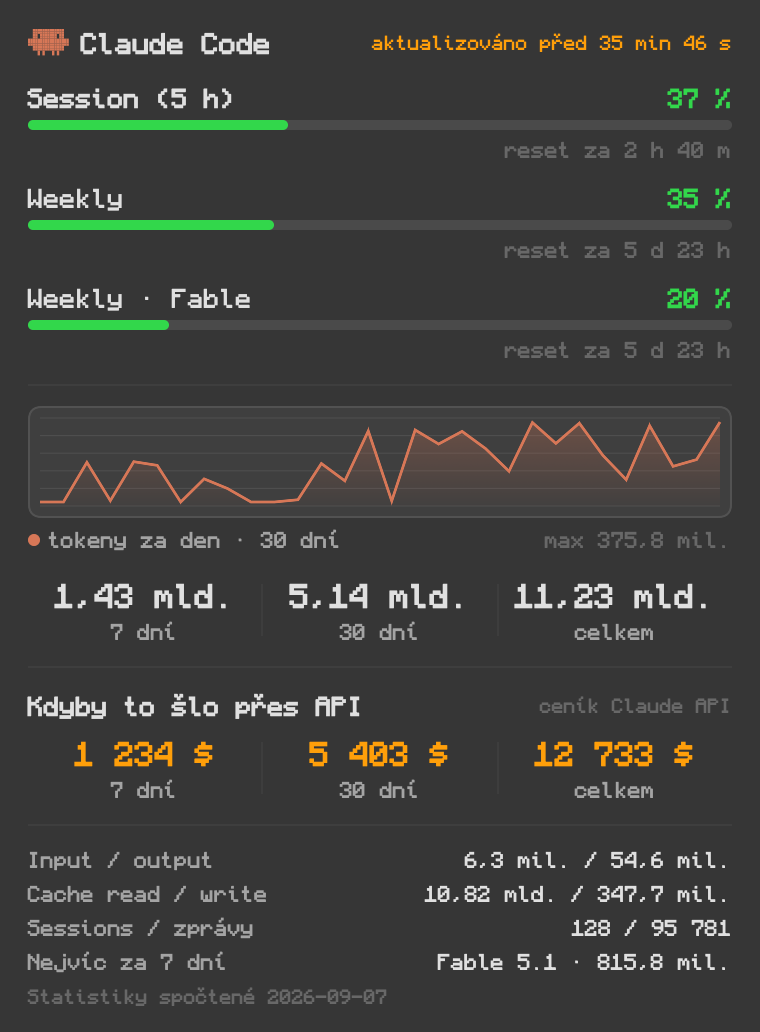
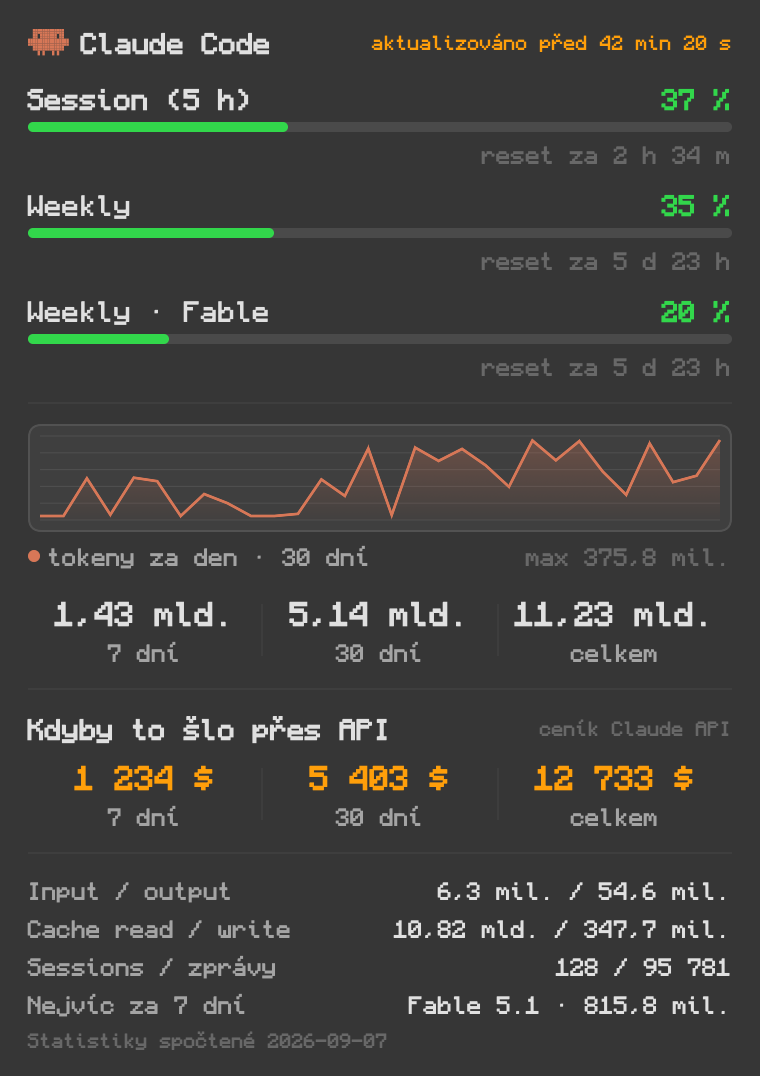
Jednotná typografie panelu a přepsané README
Velikosti písma sjednoceny na čtyři úrovně pojmenované v Fmt: big pro souhrnná
čísla, heading pro nadpisy sekcí a názvy limitů, body pro běžný text včetně
odpočtů a legendy grafu, meta pro poznámky. Dřív se mísilo šest velikostí,
takže "reset za" a "max ..." nesedělo.

README popisuje i živé čtení z API, log a to, že se soubory parsují jen při
změně. Přibyl snímek lišty.

Claude-Session: https://claude.ai/code/session_016XnVs6Dbmv4vnG6tscHHrE

diff --git a/Sources/ClaudeUsage/PopoverView.swift b/Sources/ClaudeUsage/PopoverView.swift
@@ -24,7 +24,7 @@ struct UsageContentView: View {
 
             if let apiNote {
                 Text(apiNote)
-                    .font(Fmt.mono(9))
+                    .font(Fmt.meta)
                     .foregroundStyle(.orange)
                     .fixedSize(horizontal: false, vertical: true)
             }
@@ -54,12 +54,12 @@ struct UsageContentView: View {
         HStack(spacing: 6) {
             MascotBadge(cell: 1.2)
             Text("Claude Code")
-                .font(Fmt.mono(13, weight: .semibold))
+                .font(Fmt.heading)
                 .fixedSize()
             Spacer()
             if let usage {
                 Text(usage.freshnessLabel)
-                    .font(Fmt.mono(9))
+                    .font(Fmt.meta)
                     .lineLimit(1)
                     .fixedSize()
                     .foregroundStyle(usage.isStale ? Color.orange : Color.secondary)
@@ -70,8 +70,8 @@ struct UsageContentView: View {
 
     private func note(_ text: String, _ detail: String) -> some View {
         VStack(alignment: .leading, spacing: 2) {
-            Text(text).font(Fmt.mono(11, weight: .semibold))
-            Text(detail).font(Fmt.mono(10)).foregroundStyle(.secondary)
+            Text(text).font(Fmt.bodyBold)
+            Text(detail).font(Fmt.meta).foregroundStyle(.secondary)
         }
         .fixedSize(horizontal: false, vertical: true)
     }
@@ -90,10 +90,10 @@ struct UsageContentView: View {
         VStack(alignment: .leading, spacing: 5) {
             HStack {
                 Text("Kdyby to šlo přes API")
-                    .font(Fmt.mono(12, weight: .semibold))
+                    .font(Fmt.heading)
                 Spacer()
                 Text("ceník Claude API")
-                    .font(Fmt.mono(9))
+                    .font(Fmt.meta)
                     .foregroundStyle(.tertiary)
             }
             HStack(spacing: 0) {
@@ -120,7 +120,7 @@ struct UsageContentView: View {
                           value: "\(Fmt.modelName(top.model)) · \(Fmt.tokens(top.tokens))")
             }
             Text("Statistiky spočtené \(stats.lastComputed)")
-                .font(Fmt.mono(9))
+                .font(Fmt.meta)
                 .foregroundStyle(.tertiary)
                 .padding(.top, 1)
         }
@@ -153,10 +153,10 @@ private struct TotalCell: View {
     var body: some View {
         VStack(spacing: 1) {
             Text(value)
-                .font(Fmt.mono(15, weight: .semibold))
+                .font(Fmt.big)
                 .foregroundStyle(tint)
             Text(caption)
-                .font(Fmt.mono(10))
+                .font(Fmt.body)
                 .foregroundStyle(.secondary)
         }
         .frame(maxWidth: .infinity)
@@ -169,9 +169,9 @@ private struct DetailRow: View {
 
     var body: some View {
         HStack(spacing: 5) {
-            Text(label).font(Fmt.mono(10)).foregroundStyle(.secondary)
+            Text(label).font(Fmt.body).foregroundStyle(.secondary)
             Spacer(minLength: 6)
-            Text(value).font(Fmt.mono(10))
+            Text(value).font(Fmt.body)
         }
     }
 }
@@ -183,17 +183,17 @@ struct LimitRow: View {
         VStack(alignment: .leading, spacing: 3) {
             HStack(spacing: 5) {
                 Text(limit.title)
-                    .font(Fmt.mono(12, weight: limit.isActive ? .semibold : .regular))
+                    .font(Fmt.mono(13, weight: limit.isActive ? .semibold : .regular))
                 Spacer(minLength: 6)
                 Text("\(Int(limit.percent.rounded())) %")
-                    .font(Fmt.mono(12, weight: .semibold))
+                    .font(Fmt.heading)
                     .foregroundStyle(Fmt.color(forPercent: limit.percent))
             }
             ProgressBar(percent: limit.percent)
             HStack {
                 Spacer()
                 Text("reset za \(Fmt.countdown(to: limit.resetsAt))")
-                    .font(Fmt.mono(10))
+                    .font(Fmt.body)
                     .foregroundStyle(.tertiary)
             }
         }
@@ -267,12 +267,12 @@ struct TokenChart: View {
             HStack(spacing: 4) {
                 Circle().fill(Color(nsColor: Mascot.color)).frame(width: 6, height: 6)
                 Text("tokeny za den · \(points.count) dní")
-                    .font(Fmt.mono(10))
+                    .font(Fmt.body)
                     .foregroundStyle(.secondary)
                 Spacer()
                 if let peak = points.map(\.tokens).max() {
                     Text("max \(Fmt.tokens(peak))")
-                        .font(Fmt.mono(10))
+                        .font(Fmt.body)
                         .foregroundStyle(.tertiary)
                 }
             }

diff --git a/Sources/ClaudeUsage/Preview.swift b/Sources/ClaudeUsage/Preview.swift
@@ -5,7 +5,20 @@ import SwiftUI
 enum Preview {
     @MainActor
     static func render(to path: String) {
-        let view = UsageContentView(usage: UsageReader.read(), stats: StatsReader.read())
+        // Snímek do dokumentace má ukazovat čerstvá čísla, ne cache, takže se
+        // živé čtení zkouší vždy a na jeho nezdaru nezáleží.
+        var usage = UsageReader.read()
+        let done = DispatchSemaphore(value: 0)
+        UsageAPI.fetch { result in
+            switch result {
+            case .success(let snapshot): usage = snapshot
+            case .failure(let error): print("Živé čtení pro snímek selhalo: \(error)")
+            }
+            done.signal()
+        }
+        _ = done.wait(timeout: .now() + 12)
+
+        let view = UsageContentView(usage: usage, stats: StatsReader.read())
             .background(Color(nsColor: NSColor(calibratedWhite: 0.16, alpha: 1)))
             .environment(\.colorScheme, .dark)
 

diff --git a/Sources/ClaudeUsage/Formatting.swift b/Sources/ClaudeUsage/Formatting.swift
@@ -84,6 +84,17 @@ enum Fmt {
         return version.isEmpty ? family.capitalized : "\(family.capitalized) \(version)"
     }
 
+    // Čtyři velikosti pro celý panel, ať se stejné druhy textu nemíchají.
+    /// Velká čísla, jen souhrny.
+    static var big: Font { mono(15, weight: .semibold) }
+    /// Nadpisy sekcí a názvy limitů.
+    static var heading: Font { mono(13, weight: .semibold) }
+    /// Běžný text: popisky, hodnoty, odpočty, legenda grafu.
+    static var body: Font { mono(11) }
+    static var bodyBold: Font { mono(11, weight: .semibold) }
+    /// Poznámky pod čarou.
+    static var meta: Font { mono(9) }
+
     /// Monocraft, s bezpečným ústupem na systémový monospace, když font chybí.
     static func mono(_ size: CGFloat, weight: Font.Weight = .regular) -> Font {
         let face = weight == .regular ? "Monocraft" : "Monocraft-SemiBold"

diff --git a/README.md b/README.md
@@ -1,8 +1,10 @@
 # Claude Usage
 
-Widget do macOS lišty se spotřebou Claude Code. V liště ukazuje procenta session
-a weekly limitu, po rozkliknutí denní graf, tokeny za 7 / 30 dní i celkem a přepočet
-na cenu Claude API.
+Widget do macOS lišty se spotřebou Claude Code. V liště procenta session a weekly
+limitu, po rozkliknutí denní graf, tokeny za 7 / 30 dní i celkem a přepočet na cenu
+Claude API.
+
+![Lišta](docs/menubar.png)
 
 ![Panel](docs/menu.png)
 
@@ -18,38 +20,46 @@ Přeloží se, nakopíruje do `/Applications/Claude Usage.app` a spustí. Potře
 a Command Line Tools (`xcode-select --install`), Xcode ne. Font [Monocraft](https://github.com/IdreesInc/Monocraft)
 je volitelný, bez něj se použije systémový monospace.
 
-Spouštění po restartu zapneš v menu: **Nastavení > Spouštět po přihlášení**.
+Spouštění po restartu: **Nastavení > Spouštět po přihlášení**. Zapíše LaunchAgent do
+`~/Library/LaunchAgents/com.liberafatum.claude-usage-widget.plist`, žádná binárka navíc.
 
 ## Odkud jsou data
 
-Vše se čte z lokálních souborů, které si píše sám Claude Code. Aplikace nikam nevolá
-a nesahá na klíče ani na Keychain.
-
-| Soubor | Co z něj bere |
+| Zdroj | Co z něj bere |
 | --- | --- |
-| `~/.claude.json`, klíč `cachedUsageUtilization` | procenta session a weekly limitu, časy resetu |
+| `https://api.anthropic.com/api/oauth/usage` | živá procenta limitů, volitelné, viz níže |
+| `~/.claude.json`, klíč `cachedUsageUtilization` | tatáž procenta z cache, když živé čtení neběží |
 | `~/.claude/stats-cache.json` | tokeny po dnech a modelech, celkové součty |
 
-`cachedUsageUtilization` je cache, kterou přepisuje Claude Code při startu a při příkazu
-`/usage`. Widget hlídá čas změny souboru a načte ho hned, jak se přepíše, ale čerstvější
-než cache sám o sobě nebude. Hlavička panelu proto píše zdroj a stáří údaje.
+Statistiky tokenů se čtou vždy jen z lokálního souboru. Soubory se parsují pouze při
+změně jejich času úpravy, takže widget na pozadí prakticky nic nedělá.
+
+`cachedUsageUtilization` přepisuje Claude Code při startu a při příkazu `/usage`, mezitím
+stárne. Proto to živé čtení.
 
 `stats-cache.json` se přepočítává po dnech, graf tak většinou končí včerejškem.
 
 ## Živé čtení limitů
 
-**Nastavení > Číst limity živě z API** obejde cache a zavolá `https://api.anthropic.com/api/oauth/usage`,
-tedy stejný endpoint jako Claude Code. Token se hledá v `~/.claude/.credentials.json` a pak
-v Keychainu, načte se jednou za běh aplikace a drží se jen v paměti. První čtení Keychainu
-vyvolá systémový dialog, potvrď **Vždy povolit**.
+**Nastavení > Číst limity živě z API** volá stejný endpoint jako Claude Code. Token se
+hledá v `~/.claude/.credentials.json` a pak v Keychainu, načte se **jednou za běh
+aplikace** a drží se jen v paměti, znovu se sáhne dolů až po HTTP 401 nebo 403. První
+čtení Keychainu vyvolá systémový dialog, potvrď **Vždy povolit**, pak už je klid.
 
-Endpoint svůj limit četnosti v hlavičkách nehlásí, odstup mezi dotazy se proto ladí za běhu:
-startuje na minutě, po HTTP 429 se zdvojnásobí až k patnácti minutám a po každém úspěchu
-klesá zpět k minutě. Ověřit ho jde i z terminálu, ale pozor, ukusuje ze stejného limitu:
+Endpoint svůj limit četnosti v hlavičkách nehlásí, odstup mezi dotazy se proto ladí za
+běhu: startuje na minutě, po HTTP 429 se zdvojnásobí až k patnácti minutám a po každém
+úspěchu klesá zpět k minutě.
+
+Hlavička panelu píše, jak staré číslo vidíš, po najetí myší i to, odkud pochází.
+Nad 15 minut zoranžoví.
+
+Ověření z terminálu, pozor, ukusuje ze stejného limitu jako widget:
 
 ```bash
 "/Applications/Claude Usage.app/Contents/MacOS/ClaudeUsage" --test-api
 ```
+
+Neúspěchy se zapisují do `~/Library/Logs/ClaudeUsage.log` včetně OSStatus z Keychainu.
 
 ## Přepočet na API
 
@@ -60,10 +70,9 @@ se dopočítá z celkového poměru téhož modelu.
 
 ## Nastavení
 
-V liště buď session, weekly, obojí, nebo vyšší z obou. Dál rozsah grafu (14 / 30 / 60 dní),
-ikona v liště, živé čtení z API a spouštění po přihlášení.
-
-Soubory se čtou jen když se změní čas jejich úpravy, takže widget na pozadí nic nedělá.
+V liště buď session, weekly, obojí, nebo vyšší z obou, ve tvaru `45 % s | 35 % w`.
+Dál rozsah grafu (14 / 30 / 60 dní), ikona v liště, živé čtení z API a spouštění
+po přihlášení.
 
 ## Odinstalace
 
